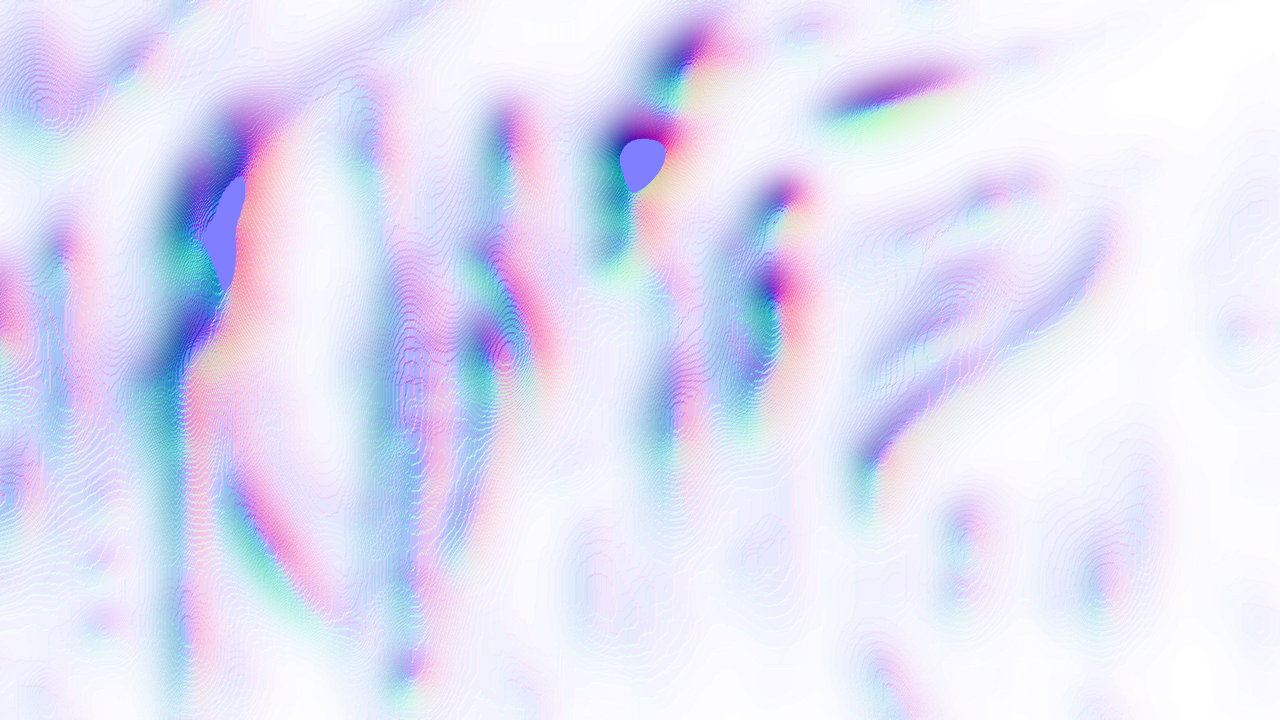
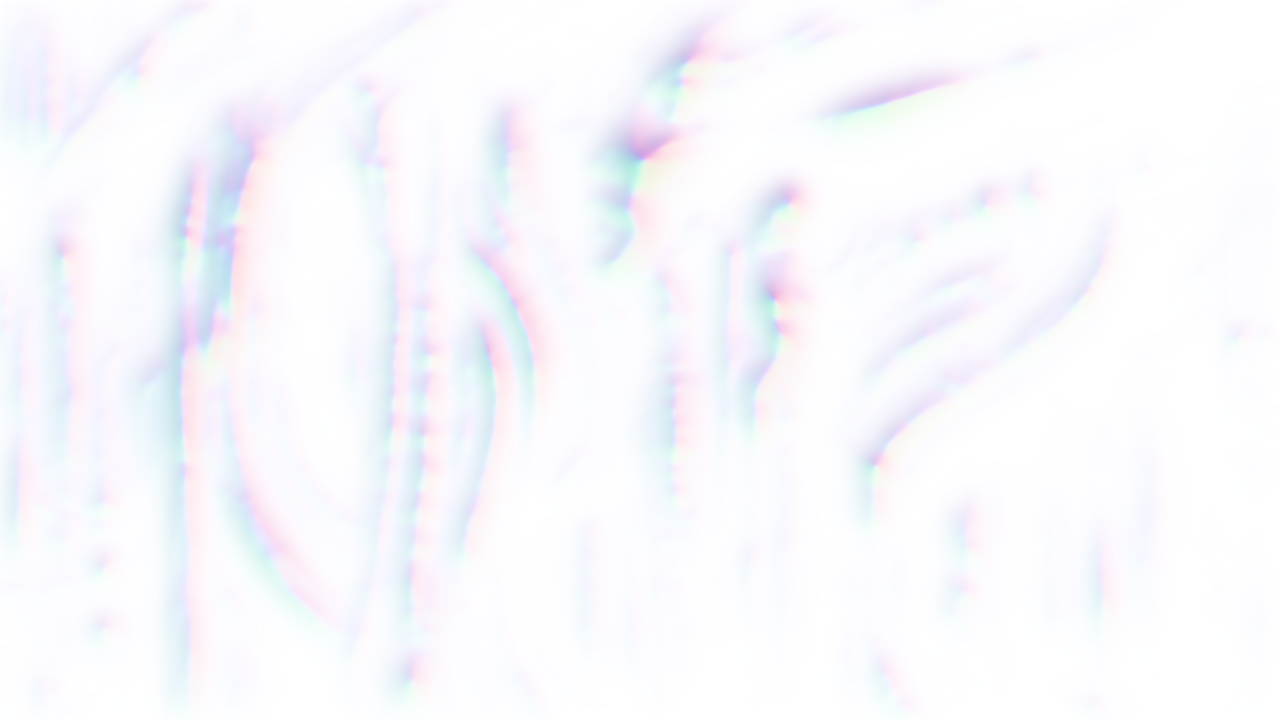
Fix the normal map generator: blur in float, Sobel, no clip
The lighting was standard now, but the map it lit was not. Two bugs in
height_field/normal_map were the whole "weird lines" and "hard cut
offs" report, and neither was in the shader.

PIL's GaussianBlur keeps the image mode, so filtering an 8-bit "L"
image rounds the result back to 8-bit integers. The height field was a
68-level staircase -- measured on harvest: 68 distinct values against
921600 for a float blur. Its gradient was zero inside every step and a
burst of tilt at each step boundary, so the light drew a thin line at
every one of them. blur_float() is a separable numpy convolution on the
float array. Neighbour pairs with a jump over 0.30 in normal units went
from 46.8% to 0.45%; exactly-flat pairs from 49.9% to 6.7%.

The percentile clip pinned 1.3% of the frame to exactly 0 and 0.5% to
exactly 1, and the gradient is zero inside a plateau, so each clip
boundary was a hard light/shadow edge. The clip is gone -- the slope is
normalised downstream, so the height field's absolute range does not
matter.

The slope now comes from the Sobel operator, the standard
height-to-normal filter, rather than a central difference. The sign
convention is verified rather than assumed: against a synthetic
Gaussian bump lit from the upper left, the highlight lands in the bump's
upper-left quadrant. n.z is positive everywhere (min 0.24).

p50 slope 0.37, p90 1.52; SLOPE_MAX 4.0 catches only the 0.8% tail.

Verified: --check OK (desktop/web parity), 500 matches, table UI tests,
[…]

diff --git a/tools/make_bg_normal_maps.py b/tools/make_bg_normal_maps.py
@@ -47,22 +47,22 @@ ASSETS = ROOT / "assets"
 BACKGROUNDS = ["harvest", "hole", "arctic", "castle", "city", "face", "realm"]
 
 WIDTH, HEIGHT = 1280, 720
-# The height field comes from luminance, so its gradient is only non-zero
-# where the art actually changes -- half the frame is flat and the relief
-# sits in bands along the art's contours. Lighting that read as edging
-# rather than bumps, so the blur is now heavy: only the large forms (dome,
-# spires, ridges) carry relief, and the art's own texture stops being
-# amplified into visible contour banding.
-BLUR_DETAIL = 13.0     # px sigma for the fine height scale
-BLUR_BROAD = 26.0      # px sigma for the broad forms
-DETAIL_WEIGHT = 0.35   # weight of the fine scale vs the broad one
-TARGET_SLOPE = 2.6     # p98 of |grad height| is scaled to this slope, which
-                       # sets how strong the relief is. 1.0 left the map nearly
-                       # flat (mean tilt 10 degrees), so N.L barely varied and
-                       # the light read as a wash; 2.6 gives mean tilt 25
-                       # degrees, p90 56 -- bumps that actually answer a light.
-SLOPE_MAX = 3.0        # clamp on the scaled slope, so the steepest art edges
-                       # cannot push the normal past ~72 degrees and strobe.
+# The height field is a blurred luminance, and the blur sigma decides where
+# relief lives -- more than the slope does. A luminance gradient is only
+# non-zero where the art changes, so a light blur puts all the relief in thin
+# bands along the art's contours and the lighting traces those contours as
+# edges. 16/6 px keeps the large forms (the Harvest dome, the spires, the
+# ridges) and leaves the art's own texture alone.
+BLUR_BROAD = 16.0     # px sigma for the broad forms
+BLUR_DETAIL = 6.0     # px sigma for the medium detail on top
+DETAIL_WEIGHT = 0.35  # weight of the detail scale vs the broad one
+TARGET_SLOPE = 3.0    # p98 of |gradient| is scaled to this slope, which sets
+                      # how strong the relief is: mean tilt ~25 degrees, p90
+                      # ~50. 1.0 left the map nearly flat (mean tilt 10), so
+                      # N.L barely varied and the light read as a wash.
+SLOPE_MAX = 4.0       # clamp on the scaled slope. Only the extreme tail of
+                      # the distribution reaches it; it exists so the steepest
+                      # art edges cannot push a normal near 90 degrees.
 
 # ---- moving-light constants; keep in sync with assets/depth_fog*.fs ----
 # Standard tangent-space normal mapping: an ambient term plus two directional
@@ -91,27 +91,72 @@ FILL_DIRECTION = FILL_DIRECTION / np.linalg.norm(FILL_DIRECTION)
 # -----------------------------------------------------------------------
 
 
+def _gaussian_kernel(sigma: float) -> np.ndarray:
+    """1-D gaussian kernel, truncated at 3 sigma."""
+    radius = max(1, int(math.ceil(sigma * 3.0)))
+    xs = np.arange(-radius, radius + 1, dtype=np.float64)
+    k = np.exp(-(xs * xs) / (2.0 * sigma * sigma))
+    return k / k.sum()
+
+
+def blur_float(a: np.ndarray, sigma: float) -> np.ndarray:
+    """Separable gaussian blur on a float array.
+
+    This must NOT be PIL's GaussianBlur: PIL keeps the image mode, so
+    filtering an 8-bit "L" image rounds the result back to 8-bit integers.
+    That turned the height field into a 68-level staircase -- continuous
+    nowhere, with zero gradient inside every step and a burst of tilt at
+    each step boundary -- and the lighting drew every one of those
+    boundaries as a thin line over the art. Measured on harvest: 68 distinct
+    values against 921600 for this, and 42% of the frame pinned to exactly
+    zero gradient.
+    """
+    k = _gaussian_kernel(sigma)
+    t = np.apply_along_axis(lambda m: np.convolve(m, k, mode="same"), 1, a)
+    return np.apply_along_axis(lambda m: np.convolve(m, k, mode="same"), 0, t)
+
+
 def height_field(img: Image.Image) -> np.ndarray:
+    """Blurred luminance as a float height field. No percentile clipping:
+    clipping pinned 1.3% of the frame to exactly 0 and 0.5% to exactly 1,
+    and the gradient is zero inside a plateau, so the clip boundary became
+    a hard light/shadow edge. The slope is normalised downstream, so the
+    height field's absolute range does not matter and needs no rescaling.
+    """
     lum = np.asarray(img.convert("L"), dtype=np.float64) / 255.0
-    broad = np.asarray(
-        img.convert("L").filter(ImageFilter.GaussianBlur(BLUR_BROAD)),
-        dtype=np.float64) / 255.0
-    detail = np.asarray(
-        img.convert("L").filter(ImageFilter.GaussianBlur(BLUR_DETAIL)),
-        dtype=np.float64) / 255.0
-    h = (1.0 - DETAIL_WEIGHT) * broad + DETAIL_WEIGHT * detail
-    lo, hi = np.percentile(h, 1.0), np.percentile(h, 99.5)
-    return np.clip((h - lo) / max(hi - lo, 1e-6), 0.0, 1.0)
+    broad = blur_float(lum, BLUR_BROAD)
+    detail = blur_float(lum, BLUR_DETAIL)
+    return (1.0 - DETAIL_WEIGHT) * broad + DETAIL_WEIGHT * detail
+
+
+def _sobel(a: np.ndarray, k: np.ndarray) -> np.ndarray:
+    """3x3 correlation with edge padding (no wrap-around)."""
+    p = np.pad(a, 1, mode="edge")
+    return (k[0, 0] * p[:-2, :-2] + k[0, 1] * p[:-2, 1:-1] + k[0, 2] * p[:-2, 2:]
+            + k[1, 0] * p[1:-1, :-2] + k[1, 1] * p[1:-1, 1:-1] + k[1, 2] * p[1:-1, 2:]
+            + k[2, 0] * p[2:, :-2] + k[2, 1] * p[2:, 1:-1] + k[2, 2] * p[2:, 2:])
 
 
 def normal_map(img: Image.Image) -> np.ndarray:
+    """Height field -> tangent-space normal map.
+
+    Sobel is the standard height-to-normal operator: it weights four
+    neighbours per axis instead of taking a plain central difference, which
+    smooths the result on the same data. Rows grow downward and z faces the
+    viewer, so a surface whose height rises toward the right or the bottom
+    has its normal tilted toward the left or the top -- n.xy is the negative
+    gradient. Checked against a synthetic Gaussian bump lit from the upper
+    left: the highlight lands in the bump's upper-left quadrant.
+    """
     h = height_field(img)
-    gy, gx = np.gradient(h)  # rows = v (down), cols = u (right)
-    mag = np.sqrt(gx * gx + gy * gy)
+    sx = np.array([[-1, 0, 1], [-2, 0, 2], [-1, 0, 1]], dtype=np.float64)
+    sy = np.array([[-1, -2, -1], [0, 0, 0], [1, 2, 1]], dtype=np.float64)
+    dX, dY = _sobel(h, sx), _sobel(h, sy)
+    mag = np.sqrt(dX * dX + dY * dY)
     p = float(np.percentile(mag, 98.0))
     s = TARGET_SLOPE / max(p, 1e-6)
     slope = np.minimum(mag * s, SLOPE_MAX)
-    ang = np.arctan2(gy, gx)
+    ang = np.arctan2(dY, dX)
     nx, ny, nz = -slope * np.cos(ang), -slope * np.sin(ang), np.ones_like(h)
     inv = 1.0 / np.sqrt(nx * nx + ny * ny + nz * nz)
     out = np.zeros(h.shape + (4,), dtype=np.uint8)

diff --git a/STATUS.md b/STATUS.md
@@ -11,7 +11,10 @@
 
 - Replaces the PR #58 Harvest "sweeping sun" prototype. Its normal texture was nearly flat (mean z 0.997), its height mask allowed a constant +22% on only 18% of the frame (the sweep cancelled itself out by construction: constant front elevation minus the l.z baseline), and its bake darkened Harvest — none of it read as a moving light.
 - `tools/make_bg_normal_maps.py` derives real bump maps (`assets/<name>_normal.png`) from each non-Deus background's art: RGB holds a tangent-space normal of a height field derived from the art, and **alpha holds the height field itself, which nothing samples** — the shaders light the RGB normal with plain tangent-space `N.L`, so no relief mask is baked any more (the mask was removed with the relief-only trick it existed to gate). Relief is auto-normalized to a target slope so every background gets equally strong bumps, so the maps are regenerated whenever the art is re-baked (they are currently derived from the darker backgrounds now on `main`). Deus is excluded on purpose and keeps its own look.
-- The height field is a heavily blurred luminance (broad sigma 26 px, fine 13 px, 35/65 blend). The blur weight matters more than the slope: a luminance-derived gradient is only non-zero where the art changes, so at the previous light blur (3.6/1.6 px) half the frame was flat and *all* the relief sat in narrow bands along the art's contours — lighting that read as "lightning that is edging", a complaint the slope-only and mask-only fixes could not touch. At 26/13 the relief comes from the large forms (the Harvest dome, the spires, the ridges) and the art's own texture is no longer amplified into visible contour banding; `SLOPE_MAX` 3.0 clamps the steepest art edges so they cannot push a normal past ~72 degrees and strobe. `TARGET_SLOPE` 2.6 gives mean tilt 25 degrees, p90 56.
+- The height field is a blurred luminance, and the blur is where the relief lives. Two bugs in the first version were the entire "weird lines" and "hard cut offs" complaint, and neither was the lighting:
+  - **PIL's `GaussianBlur` keeps the image mode**, so filtering an 8-bit `"L"` image rounds the result back to 8-bit integers. The height field was therefore a 68-level staircase (measured on harvest: 68 distinct values against 921600 for a float blur). Its gradient was zero inside every step and a burst of tilt at each step boundary, so the lighting drew a thin line at every one of them. `blur_float()` is a separable numpy convolution on the float array and is what removed them: neighbour-pairs with a jump over 0.30 in normal units went from **46.8% to 0.45%**, and exactly-flat pairs from 49.9% to 6.7%.
+  - **The percentile clip pinned 1.3% of the frame to exactly 0 and 0.5% to exactly 1**, and the gradient is zero inside a plateau, so each clip boundary became a hard light/shadow edge. The clip is gone; the slope is normalised downstream so the height field's absolute range does not matter.
+- The slope now comes from the **Sobel operator** (the standard height-to-normal filter, four weighted neighbours per axis) rather than a central difference, with `TARGET_SLOPE` 3.0 giving p50 slope 0.37, p90 1.52, and `SLOPE_MAX` 4.0 catching only the 0.8% tail. The sign convention is verified, not assumed: against a synthetic Gaussian bump lit from the upper left, the highlight lands in the bump's upper-left quadrant. `n.z` is positive everywhere (min 0.24), so no normal points away from the viewer.
 - Both background shaders (`assets/depth_fog.fs`, `assets/depth_fog_web.fs`) now do ordinary tangent-space normal mapping: an ambient floor (0.55) plus two *directional* lights — a warm key whose direction drifts on a slow lissajous and a cool fixed fill — with a Blinn-Phong glint (`SPEC_POWER` 48, `SPEC_GAIN` 0.30). The diffuse term is the full `max(dot(n, l), 0.0)`, so the bump actually steers the light and the highlight travels as the key light swings. This replaces the previous rig of three drifting *point* lights with a relief-only response and a mask, which could only ever pool around the map's steep pixels and never read as a lit surface. Because a flat normal returns `l.z` (~0.5-1.0) under a directional light, the ambient floor is what keeps the frame from washing out — 0.55 leaves shadowed slopes at ~0.8x and lit ones at ~1.7-2.0x, so the light and dark sides of the relief both read. `--check` enforces desktop/web parity of the moving-light block, and the tool mirrors its constants for offline previews.
 - A capture (a match taken from the table) or a Koi-Koi call also flashes the background lights like a thunder: `bg_light_flash()` in `src/ui_board.c` spikes to 1.0 and decays linearly at 2.2/s until only 30% of the peak is left (~0.32 s), then eases into a long exponential tail (`tau` 0.55 s) back to rest, so the whole flash lasts ~2.5 s. The shader multiplies the entire lighting factor by `1 + FLASH_GAIN * flashAmount`. Both events are caught as rising edges (`ANIM_CAPTURE_FLY` becoming active, `koi_called[]` counting up), so every event flashes exactly once and SHOBU, which does not call Koi-Koi, does not flash. Deus has no normal map and is unaffected.
 - In-match drawing enables the effect per background whenever its normal map is loaded (`src/ui_board.c`); menus keep the static dimmed path. Fog values, vignette, cards, rules, scoring, AI, campaign, storage, and replay are untouched.
